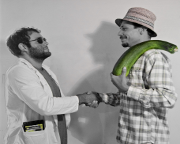
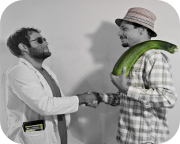
Transformation des fichiers jpg en png + arrondi des bordes des images pour coller avc la bordure en css

diff --git a/04_website/index.html b/04_website/index.html
@@ -101,7 +101,7 @@
                         <div class="module mod-box mod-box-header  deepest">
                           <h1 class="module-title">Un logiciel simple et puissant</h1>
                               <div class="module mod-box mod-box-header  deepest right">
-                                <img src="http://cultibox.googlecode.com/svn/wiki/img/cultibox_soft_mac_2.jpg" alt="Programmes Cultibox" class="img-cultibox" width="180" />
+                                <img src="images/cultibox_soft_mac_2.png" alt="Programmes Cultibox" class="img-cultibox" width="180" />
                               </div>
                           <p class="text-cultibox-bulle">La <b>Cultibox</b> est fournie avec un <a href="http://cultibox.highproshop.fr/telechargement.html">logiciel gratuit et open source</a> comprenant:</p>
                           <ul>

diff --git a/04_website/telechargement.html b/04_website/telechargement.html
@@ -96,7 +96,7 @@
     </td>
     <td>
       <div class="module mod-box mod-box-header deepest">
-        <img src="http://cultibox.googlecode.com/svn/wiki/img/cultibox_portable.jpg" alt="Programmes Cultibox" class="img-cultibox" width="180" />
+        <img src="images/cultibox_portable.png" alt="Programmes Cultibox" class="img-cultibox" width="180" />
       </div>
     </td>
   </tr>
@@ -215,7 +215,7 @@ MD5 du fichier cultibox-macosx_1.1.32.pkg: <b>0dfbf79b1533cbbaeb5124fbfdde302e</
     </td>
     <td>
    <div class="module mod-box mod-box-header  deepest">
-     <img src="http://cultibox.googlecode.com/svn/wiki/img/cultibox_soft_mac.jpg" alt="Programmes Cultibox" class="img-cultibox" width="180" />
+     <img src="./images/cultibox_soft_mac.png" alt="Programmes Cultibox" class="img-cultibox" width="180" />
    </div>
     </td>
   </tr>
